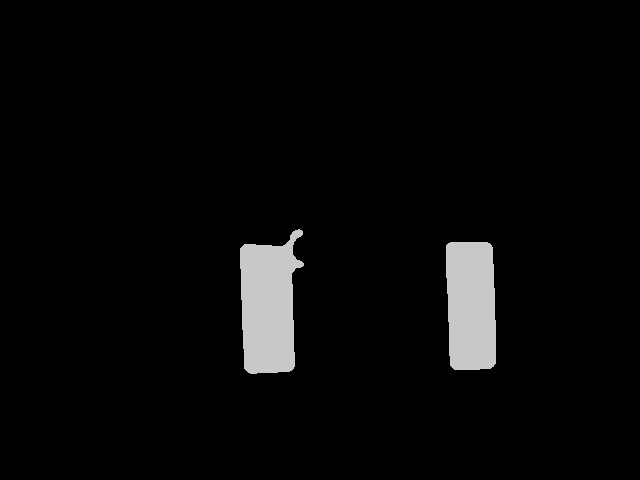
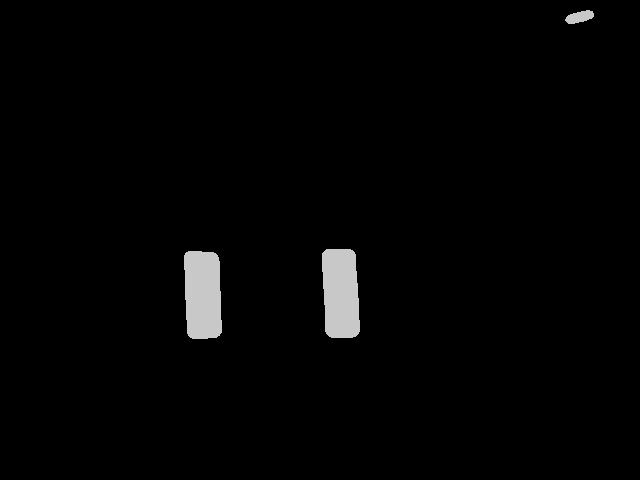
More changes

diff --git a/FRCVisionSamplesThresh.py b/FRCVisionSamplesThresh.py
@@ -1,56 +1,66 @@
 import numpy as np
 import cv2
+import array as arr
 
 areaArray = []
+"""
+fileName = input("what is the filename, file ending included:")
+frame = cv2.imread(fileName)
+"""
+frame = cv2.imread('1ftH1ftD1Angle0Brightness.jpg')
 
-frame = cv2.imread('1ftH2ftD1Angle0Brightness.jpg')
+cv2.imshow('init frame', frame)
+
 frame = cv2.medianBlur(frame, 11)
 blank_image = np.zeros((480, 640, 3), np.uint8)
 gray = cv2.cvtColor(frame, cv2.COLOR_BGR2GRAY)
-#hsv = cv2.cvtColor(hsv, cv2.COLOR_GRAY2HSV)
 
+cv2.imshow("gray", gray)
+
+cv2.imwrite("gray.jpeg", gray)
+
+print("gray written")
+
+#hsv = cv2.cvtColor(hsv, cv2.COLOR_GRAY2HSV)
 
 upperwhite = np.array([255, 0, 255])
 lowerwhite = np.array([0, 0, 0])
 
-
-ret, thresh = cv2.threshold(gray, 30, 200, cv2.THRESH_BINARY)
+ret, thresh = cv2.threshold(gray, 30, 150, cv2.THRESH_BINARY)
 #res = cv2.bitwise_and(frame, frame, mask= mask)
 cv2.imshow('thresh', thresh)
-cv2.imshow('init frame', frame)
 contour, hierarchy = cv2.findContours(thresh, cv2.RETR_LIST, cv2.CHAIN_APPROX_NONE)
 
 print(hierarchy)
-
-cv2.drawContours(blank_image, contour, cv2.FILLED, [0, 0, 255], 2)
 
 for i, c in enumerate(contour):
     area = cv2.contourArea(c)
     areaArray.append(area)
 
-print(areaArray)
+#print(areaArray)
 
-sorteddata = sorted(zip(areaArray, contour), key=lambda x: x[0], reverse=True)
-
-for i, c in enumerate(sorteddata):
-    if i > 1:
-        sorteddata.remove(sorteddata[i])
+sorteddata = sorted(contour, key=cv2.contourArea, reverse=True)
 
 print(sorteddata)
 
+for i, c in enumerate(sorteddata):
+    if i < 2:
+        sorteddata[0] = np.delete(sorteddata[0], i)
+
+cv2.drawContours(blank_image, contour, cv2.FILLED, [0, 0, 255], 2)
 
 #print(sorteddata)
 
-for i, c in enumerate(areaArray):
+"""for i, c in enumerate(areaArray):
     if i > 2:
         sorteddata.remove(sorteddata[i])
-
+"""
 #print(sorteddata)
 
 cv2.imshow('contours', blank_image)
 #cv2.imshow('img', thresh)
 #cv2.imshow('res', res)
 
-cv2.waitKey(0)
+#cv2.waitKey(0)
 cv2.destroyAllWindows()
-cv2.imwrite("gray_peg.jpeg", thresh)
+cv2.imwrite("contours.jpeg", blank_image)

diff --git a/RaspiStream.py b/RaspiStream.py
@@ -1,0 +1,66 @@
+import numpy as np
+import cv2
+import array as arr
+
+areaArray = []
+"""
+fileName = input("what is the filename, file ending included:")
+frame = cv2.imread(fileName)
+"""
+cap = cv2.VideoCapture("http://192.168.1.201:8080/video")
+
+while True:
+    ret, frame = cap.read()
+    frame = cv2.medianBlur(frame, 11)
+    blank_image = np.zeros((480, 640, 3), np.uint8)
+    gray = cv2.cvtColor(frame, cv2.COLOR_BGR2GRAY)
+    #hsv = cv2.cvtColor(hsv, cv2.COLOR_GRAY2HSV)
+
+    cv2.imshow('frame', frame)
+    upperwhite = np.array([255, 0, 255])
+    lowerwhite = np.array([0, 0, 0])
+
+
+    ret, thresh = cv2.threshold(gray, 200, 255, cv2.THRESH_BINARY)
+    #res = cv2.bitwise_and(frame, frame, mask= mask)
+    #cv2.imshow('thresh', thresh)
+    #cv2.imshow('init frame', frame)
+    contour, hierarchy = cv2.findContours(thresh, cv2.RETR_LIST, cv2.CHAIN_APPROX_NONE)
+
+    #print(hierarchy)
+
+    for i, c in enumerate(contour):
+        area = cv2.contourArea(c)
+        areaArray.append(area)
+
+    #print(areaArray)
+
+    sorteddata = sorted(contour, key=cv2.contourArea, reverse=True)
+
+    #print(sorteddata)
+
+    for i, c in enumerate(sorteddata):
+        if i < 2:
+            sorteddata[0] = np.delete(sorteddata[0], i)
+
+    cv2.drawContours(blank_image, contour, cv2.FILLED, [0, 0, 255], 2)
+
+    #print(sorteddata)
+
+    """for i, c in enumerate(areaArray):
+        if i > 2:
+            sorteddata.remove(sorteddata[i])
+    """
+
+    if cv2.waitKey(1) & 0xFF == ord(' '):
+        break
+
+    #print(sorteddata)
+
+    cv2.imshow('contours', blank_image)
+    cv2.imshow('img', thresh)
+    #cv2.imshow('res', res)
+
+    #cv2.waitKey(0)
+cv2.destroyAllWindows()    
+#cv2.imwrite("contours.jpeg", blank_image)

diff --git a/PhoneStreamThresh.py b/PhoneStreamThresh.py
@@ -1,7 +1,7 @@
 import numpy as np
 import cv2
 
-cap = cv2.VideoCapture("http://192.168.1.201:8080/video")
+cap = cv2.VideoCapture("http://192.168.1.177:1181/video")
 
 while(True):
 
